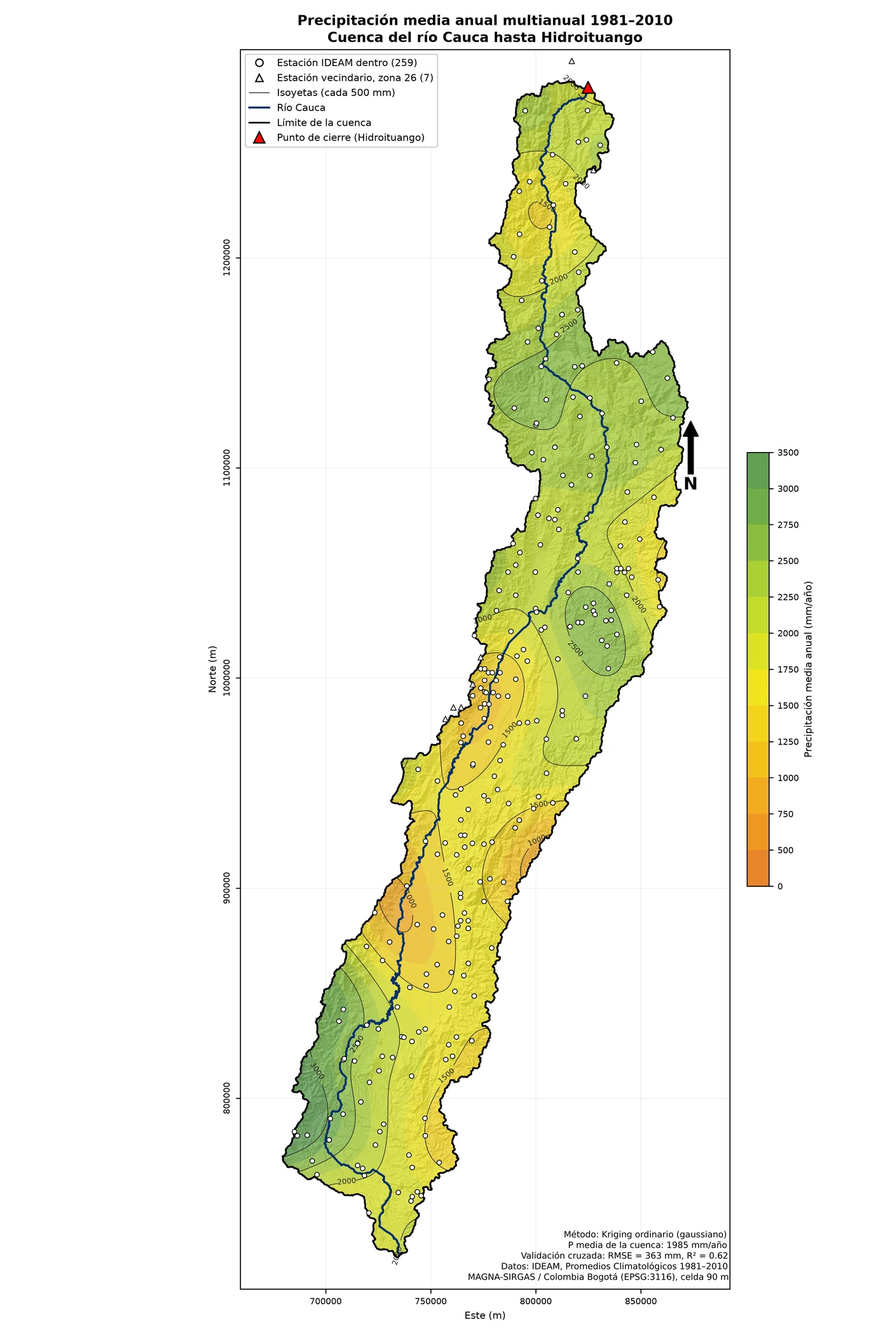
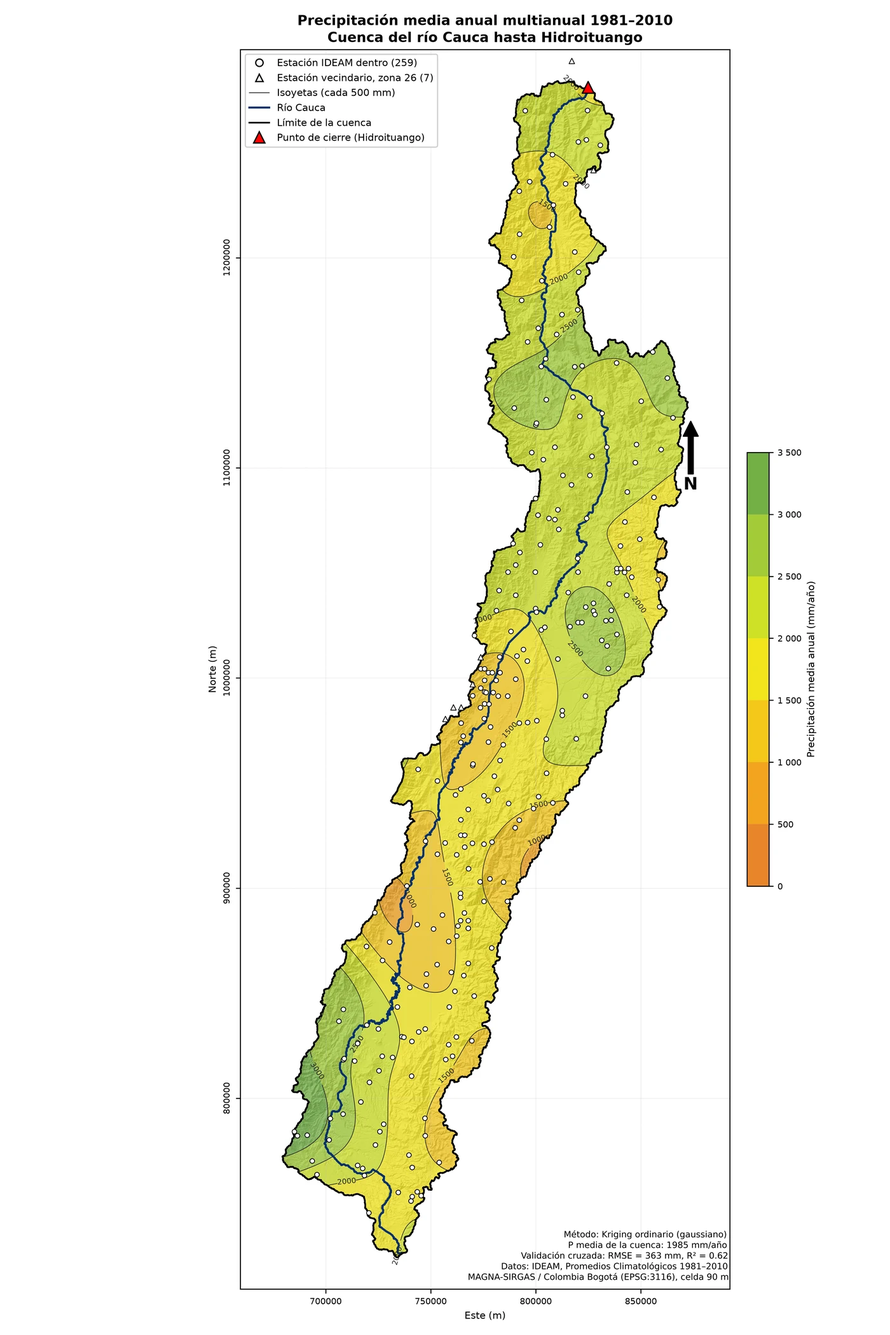
Barras de color legibles: verticales, menos clases y miles separados

diff --git a/index.html b/index.html
@@ -209,7 +209,7 @@ sobreestima la ETR, porque la curva no es lineal. La validación con caudales se
 usaron las estaciones con <b>15 años completos o más en 1981–2010</b>, el mismo periodo de la climatología. El área de drenaje de cada una
 se delimitó con el mismo DEM. El caudal medio anual multianual es el promedio de los años completos.</p>
 <h3>Decisiones</h3><ul class='dec'><li><b>Periodo 1981–2010.</b> el de la precipitación y la temperatura; además es anterior al llenado de Hidroituango (2019)</li><li><b>Faltantes sin rellenar.</b> no hay ceros ni negativos; las medias cambian 2 % o menos según el criterio de faltantes</li><li><b>La Pintada antes del río Arma.</b> entre Irra y La Pintada el caudal sólo sube 26 m³/s, menos de lo que aporta el Arma</li><li><b>Pte. Pescadero y Olaya excluidas.</b> sólo 10 años completos cada una</li></ul>
-</div></div><div class='tw'><table><caption>Ubicación, área de drenaje, periodo de registro y caudal medio anual multianual (1981–2010)</caption><thead><tr><th>Estación</th><th>Código</th><th>Municipio</th><th>Lat (°)</th><th>Lon (°)</th><th>Área (km²)</th><th>Inicio</th><th>Fin</th><th>Años 1981–2010</th><th>Q medio (m³/s)</th></tr></thead><tbody><tr><th>La Balsa</th><td>26027010</td><td>Buenos Aires</td><td class='n'>3.0917</td><td class='n'>-76.5991</td><td class='n'>5 075</td><td>1946-01-01</td><td>2025-04-10</td><td class='n'>22</td><td class='n'>178.9</td></tr><tr><th>Juanchito</th><td>26067010</td><td>Candelaria</td><td class='n'>3.4516</td><td class='n'>-76.4754</td><td class='n'>9 344</td><td>1945-10-01</td><td>2026-08-12</td><td class='n'>23</td><td class='n'>270.5</td></tr><tr><th>La Victoria</th><td>26107070</td><td>La Victoria</td><td class='n'>4.5167</td><td class='n'>-76.0333</td><td class='n'>16 285</td><td>1959-01-01</td><td>2026-08-08</td><td class='n'>24</td><td class='n'>368.8</td></tr><tr><th>La Virginia</th><td>26177030</td><td>La Virginia</td><td class='n'>4.8925</td><td class='n'>-75.8827</td><td class='n'>20 549</td><td>1946-10-01</td><td>2026-08-12</td><td class='n'>29</td><td class='n'>538.8</td></tr><tr><th>Irra</th><td>26167070</td><td>Neira</td><td class='n'>5.2683</td><td class='n'>-75.6642</td><td class='n'>24 571</td><td>1972-01-01</td><td>2026-08-12</td><td class='n'>27</td><td class='n'>663.4</td></tr><tr><th>La Pintada</th><td>26187110</td><td>La Pintada</td><td class='n'>5.7415</td><td class='n'>-75.6006</td><td class='n'>26 443</td><td>1965-01-01</td><td>2026-08-11</td><td class='n'>30</td><td class='n'>688.9</td></tr><tr><th>Pte. Iglesias</th><td>26207030</td><td>Fredonia</td><td class='n'>5.8299</td><td class='n'>-75.7055</td><td class='n'>29 005</td><td>1979-01-01</td><td>2026-08-11</td><td class='n'>23</td><td class='n'>755.0</td></tr><tr><th>Bolombolo</th><td>26207080</td><td>Venecia</td><td class='n'>5.9700</td><td class='n'>-75.8400</td><td class='n'>30 995</td><td>1971-10-01</td><td>2026-08-12</td><td class='n'>29</td><td class='n'>877.7</td></tr><tr><th>Cañafisto</th><td>26217050</td><td>Santa Fe De Antioquia</td><td class='n'>6.4173</td><td class='n'>-75.8196</td><td class='n'>32 704</td><td>1979-01-01</td><td>2025-08-31</td><td class='n'>27</td><td class='n'>912.3</td></tr><tr><th>Pto. Valdivia</th><td>26237040</td><td>Valdivia</td><td class='n'>7.2870</td><td class='n'>-75.3967</td><td class='n'>37 267</td><td>1960-01-01</td><td>2026-08-12</td><td class='n'>19</td><td class='n'>1 122.0</td></tr></tbody></table></div><figure class='fig'><button type='button' class='zoom' data-src='img/p8_disp.webp' aria-label='Ampliar: Disponibilidad de datos de las estaciones descargadas'><img src='img/p8_disp.webp' width='1600' height='1040' loading='lazy' alt='Disponibilidad de datos de las estaciones descargadas'></button><figcaption><b>Disponibilidad de datos de las estaciones descargadas.</b> Meses con al menos 80 % de días con dato. Verde: 15 años completos o más en 1981–2010 (validada); rojo: no cumple.</figcaption></figure><div class='plot serie alta' id='s_Q'></div><div class='pie'><p><b>Caudal medio mensual.</b> Seleccione una o varias estaciones en la leyenda; arrastre sobre el gráfico o use la barra inferior para acercarse a un periodo. La franja marca 1981–2010. El régimen es bimodal, con picos en mayo y noviembre. Los años más caudalosos (1999, 2008, 2010–11, 2022) coinciden con La Niña, con el máximo mensual en noviembre de 2010 (3167 m³/s en Pto. Valdivia); los más secos (1992, 2015–16) con El Niño.</p></div><div class='plot serie' id='s_qa'></div><div class='pie'><p><b>Caudal medio de cada año completo</b> (12 meses con al menos 80 % de días). El caudal medio multianual de cada estación es el promedio de estos años dentro de 1981–2010 (franja gris). Se ven los años húmedos de La Niña (1999, 2008, 2010–2011) y secos de El Niño (1992, 2015–2016) en todas las estaciones a la vez.</p></div></section><section role="tabpanel" id="p9" aria-labelledby="t-p9" hidden><h2>9. Balance hídrico</h2><div class='figs c1'><figure class='fig'><button type='button' class='zoom' data-src='img/p9_panel.webp' aria-label='Ampliar: Balance hídrico de largo plazo celda a celda'><img src='img/p9_panel.webp' width='2400' height='1342' loading='lazy' alt='Balance hídrico de largo plazo celda a celda'></button><figcaption><b>Balance hídrico de largo plazo celda a celda.</b> ETP (Hargreaves), índice de aridez φ, ETR (Budyko) y escorrentía R = P − ETR.</figcaption></figure></div><div class='cols'>
+</div></div><div class='tw'><table><caption>Ubicación, área de drenaje, periodo de registro y caudal medio anual multianual (1981–2010)</caption><thead><tr><th>Estación</th><th>Código</th><th>Municipio</th><th>Lat (°)</th><th>Lon (°)</th><th>Área (km²)</th><th>Inicio</th><th>Fin</th><th>Años 1981–2010</th><th>Q medio (m³/s)</th></tr></thead><tbody><tr><th>La Balsa</th><td>26027010</td><td>Buenos Aires</td><td class='n'>3.0917</td><td class='n'>-76.5991</td><td class='n'>5 075</td><td>1946-01-01</td><td>2025-04-10</td><td class='n'>22</td><td class='n'>178.9</td></tr><tr><th>Juanchito</th><td>26067010</td><td>Candelaria</td><td class='n'>3.4516</td><td class='n'>-76.4754</td><td class='n'>9 344</td><td>1945-10-01</td><td>2026-08-12</td><td class='n'>23</td><td class='n'>270.5</td></tr><tr><th>La Victoria</th><td>26107070</td><td>La Victoria</td><td class='n'>4.5167</td><td class='n'>-76.0333</td><td class='n'>16 285</td><td>1959-01-01</td><td>2026-08-08</td><td class='n'>24</td><td class='n'>368.8</td></tr><tr><th>La Virginia</th><td>26177030</td><td>La Virginia</td><td class='n'>4.8925</td><td class='n'>-75.8827</td><td class='n'>20 549</td><td>1946-10-01</td><td>2026-08-12</td><td class='n'>29</td><td class='n'>538.8</td></tr><tr><th>Irra</th><td>26167070</td><td>Neira</td><td class='n'>5.2683</td><td class='n'>-75.6642</td><td class='n'>24 571</td><td>1972-01-01</td><td>2026-08-12</td><td class='n'>27</td><td class='n'>663.4</td></tr><tr><th>La Pintada</th><td>26187110</td><td>La Pintada</td><td class='n'>5.7415</td><td class='n'>-75.6006</td><td class='n'>26 443</td><td>1965-01-01</td><td>2026-08-11</td><td class='n'>30</td><td class='n'>688.9</td></tr><tr><th>Pte. Iglesias</th><td>26207030</td><td>Fredonia</td><td class='n'>5.8299</td><td class='n'>-75.7055</td><td class='n'>29 005</td><td>1979-01-01</td><td>2026-08-11</td><td class='n'>23</td><td class='n'>755.0</td></tr><tr><th>Bolombolo</th><td>26207080</td><td>Venecia</td><td class='n'>5.9700</td><td class='n'>-75.8400</td><td class='n'>30 995</td><td>1971-10-01</td><td>2026-08-12</td><td class='n'>29</td><td class='n'>877.7</td></tr><tr><th>Cañafisto</th><td>26217050</td><td>Santa Fe De Antioquia</td><td class='n'>6.4173</td><td class='n'>-75.8196</td><td class='n'>32 704</td><td>1979-01-01</td><td>2025-08-31</td><td class='n'>27</td><td class='n'>912.3</td></tr><tr><th>Pto. Valdivia</th><td>26237040</td><td>Valdivia</td><td class='n'>7.2870</td><td class='n'>-75.3967</td><td class='n'>37 267</td><td>1960-01-01</td><td>2026-08-12</td><td class='n'>19</td><td class='n'>1 122.0</td></tr></tbody></table></div><figure class='fig'><button type='button' class='zoom' data-src='img/p8_disp.webp' aria-label='Ampliar: Disponibilidad de datos de las estaciones descargadas'><img src='img/p8_disp.webp' width='1600' height='1040' loading='lazy' alt='Disponibilidad de datos de las estaciones descargadas'></button><figcaption><b>Disponibilidad de datos de las estaciones descargadas.</b> Meses con al menos 80 % de días con dato. Verde: 15 años completos o más en 1981–2010 (validada); rojo: no cumple.</figcaption></figure><div class='plot serie alta' id='s_Q'></div><div class='pie'><p><b>Caudal medio mensual.</b> Seleccione una o varias estaciones en la leyenda; arrastre sobre el gráfico o use la barra inferior para acercarse a un periodo. La franja marca 1981–2010. El régimen es bimodal, con picos en mayo y noviembre. Los años más caudalosos (1999, 2008, 2010–11, 2022) coinciden con La Niña, con el máximo mensual en noviembre de 2010 (3167 m³/s en Pto. Valdivia); los más secos (1992, 2015–16) con El Niño.</p></div><div class='plot serie' id='s_qa'></div><div class='pie'><p><b>Caudal medio de cada año completo</b> (12 meses con al menos 80 % de días). El caudal medio multianual de cada estación es el promedio de estos años dentro de 1981–2010 (franja gris). Se ven los años húmedos de La Niña (1999, 2008, 2010–2011) y secos de El Niño (1992, 2015–2016) en todas las estaciones a la vez.</p></div></section><section role="tabpanel" id="p9" aria-labelledby="t-p9" hidden><h2>9. Balance hídrico</h2><div class='figs c1'><figure class='fig'><button type='button' class='zoom' data-src='img/p9_panel.webp' aria-label='Ampliar: Balance hídrico de largo plazo celda a celda'><img src='img/p9_panel.webp' width='2400' height='1350' loading='lazy' alt='Balance hídrico de largo plazo celda a celda'></button><figcaption><b>Balance hídrico de largo plazo celda a celda.</b> ETP (Hargreaves), índice de aridez φ, ETR (Budyko) y escorrentía R = P − ETR.</figcaption></figure></div><div class='cols'>
 <p class="lead">Con ΔS ≈ 0 en 30 años, R = P − ETR. En la presa: Q estimado <b>1026 m³/s</b> frente a
 1020–1084 m³/s observados.</p>
 <p>Para cada estación se promediaron P y ETR en su área de drenaje y se calculó Q<sub>est</sub> = (P − ETR)·A. Q observado en la presa:
@@ -244,7 +244,7 @@ de CHIRPS para 1980.</p>
 (≈ 5 900 mm) la triplican. ERA5-Land y ERA5 dan casi lo mismo porque la precipitación de ERA5-Land
 es la de ERA5 llevada a una grilla más fina. La media cambia menos de 3 % entre periodos, así que la elección del periodo pesa poco
 frente a la elección del producto.</p>
-</div></div><div class='plot serie' id='s_prod'></div><div class='pie'><p><b>Precipitación anual promedio de la cuenca, 1981–2025.</b> La línea punteada es la media IDEAM 1981–2010 y la franja marca el periodo seleccionado. CHIRPS reproduce los años extremos que muestran los caudales del punto 8 (1991–1992 y 2015 secos; 1999, 2008, 2011 y 2022 húmedos). ERA5 y ERA5-Land no: sus años más secos son 2018–2019 y los más húmedos 1988 y 1998. La correlación de la lluvia anual entre CHIRPS y los reanálisis es de solo 0.4 a 0.6.</p></div></section><section role="tabpanel" id="p11" aria-labelledby="t-p11" hidden><h2>11. Mapas de precipitación por producto</h2><div class='figs c1'><figure class='fig'><button type='button' class='zoom' data-src='img/p11_panel.webp' aria-label='Ampliar: Precipitación media anual multianual 1981–2010'><img src='img/p11_panel.webp' width='2400' height='1420' loading='lazy' alt='Precipitación media anual multianual 1981–2010'></button><figcaption><b>Precipitación media anual multianual 1981–2010.</b> IDEAM (kriging, punto 3) como referencia y los tres productos en su resolución original, con la misma escala de color.</figcaption></figure></div><div class='cols'>
+</div></div><div class='plot serie' id='s_prod'></div><div class='pie'><p><b>Precipitación anual promedio de la cuenca, 1981–2025.</b> La línea punteada es la media IDEAM 1981–2010 y la franja marca el periodo seleccionado. CHIRPS reproduce los años extremos que muestran los caudales del punto 8 (1991–1992 y 2015 secos; 1999, 2008, 2011 y 2022 húmedos). ERA5 y ERA5-Land no: sus años más secos son 2018–2019 y los más húmedos 1988 y 1998. La correlación de la lluvia anual entre CHIRPS y los reanálisis es de solo 0.4 a 0.6.</p></div></section><section role="tabpanel" id="p11" aria-labelledby="t-p11" hidden><h2>11. Mapas de precipitación por producto</h2><div class='figs c1'><figure class='fig'><button type='button' class='zoom' data-src='img/p11_panel.webp' aria-label='Ampliar: Precipitación media anual multianual 1981–2010'><img src='img/p11_panel.webp' width='2400' height='1226' loading='lazy' alt='Precipitación media anual multianual 1981–2010'></button><figcaption><b>Precipitación media anual multianual 1981–2010.</b> IDEAM (kriging, punto 3) como referencia y los tres productos en su resolución original, con la misma escala de color.</figcaption></figure></div><div class='cols'>
 <p class="lead">Precipitación media de la cuenca 1981–2010: IDEAM 1 985 mm, CHIRPS
 <b>2 026 mm</b>, ERA5-Land <b>5 961 mm</b> y ERA5
 <b>5 976 mm</b>.</p>
@@ -260,7 +260,7 @@ magnitud (+2 %): fondo del Valle seco, ladera occidental del alto Cauca y Eje Ca
 <p><b>ERA5 y ERA5-Land</b> triplican la lluvia y no tienen relación espacial con las estaciones (correlación −0.06). Sus máximos, de más
 de 8000 mm/año, caen sobre el fondo del Valle del Cauca y el Eje Cafetero, justo donde las estaciones miden 1000 a 2000 mm. Es un sesgo
 conocido de los reanálisis en montaña tropical, donde la convección se parametriza y la orografía se suaviza a 28 km. ERA5-Land no lo
-corrige porque su precipitación es la de ERA5 llevada a una grilla más fina.</p></div><figure class='fig'><button type='button' class='zoom' data-src='img/p11_razon.webp' aria-label='Ampliar: Razón entre cada producto y la precipitación IDEAM'><img src='img/p11_razon.webp' width='2000' height='1715' loading='lazy' alt='Razón entre cada producto y la precipitación IDEAM'></button><figcaption><b>Razón entre cada producto y la precipitación IDEAM.</b> Azul: el producto subestima; rojo: sobreestima. Los reanálisis llegan a 5 veces la lluvia de las estaciones en el Valle del Cauca.</figcaption></figure><div class='fila'><div class='figcol'><figure class='fig'><button type='button' class='zoom' data-src='img/p11_verif.webp' aria-label='Ampliar: Verificación de lectura en toda Colombia'><img src='img/p11_verif.webp' width='2200' height='1006' loading='lazy' alt='Verificación de lectura en toda Colombia'></button><figcaption><b>Verificación de lectura en toda Colombia.</b> Precipitación anual 1981–2010 de cada archivo en el dominio completo, con la cuenca en rojo y lugares de referencia.</figcaption></figure></div><div class='texto'>
+corrige porque su precipitación es la de ERA5 llevada a una grilla más fina.</p></div><figure class='fig'><button type='button' class='zoom' data-src='img/p11_razon.webp' aria-label='Ampliar: Razón entre cada producto y la precipitación IDEAM'><img src='img/p11_razon.webp' width='2000' height='1715' loading='lazy' alt='Razón entre cada producto y la precipitación IDEAM'></button><figcaption><b>Razón entre cada producto y la precipitación IDEAM.</b> Azul: el producto subestima; rojo: sobreestima. Los reanálisis llegan a 5 veces la lluvia de las estaciones en el Valle del Cauca.</figcaption></figure><div class='fila'><div class='figcol'><figure class='fig'><button type='button' class='zoom' data-src='img/p11_verif.webp' aria-label='Ampliar: Verificación de lectura en toda Colombia'><img src='img/p11_verif.webp' width='2200' height='906' loading='lazy' alt='Verificación de lectura en toda Colombia'></button><figcaption><b>Verificación de lectura en toda Colombia.</b> Precipitación anual 1981–2010 de cada archivo en el dominio completo, con la cuenca en rojo y lugares de referencia.</figcaption></figure></div><div class='texto'>
 <h3>Verificación de los archivos</h3>
 <p>Antes de interpretar el sesgo de los reanálisis se comprobó que los archivos se leyeron en la posición correcta. En los tres el máximo
 nacional está en la costa Pacífica y coinciden en Quibdó (≈ 8 100–8 800 mm/año), La Guajira es seca (Riohacha 700–1 250 mm) y al invertir la
@@ -297,7 +297,7 @@ lluvia se vuelve escorrentía. Por eso CHIRPS v3.0, con 11 % más lluvia que v2.
 <p>Conclusión: para el balance hídrico de esta cuenca CHIRPS representa mejor las condiciones observadas; los reanálisis sólo servirían con
 una corrección de sesgo basada en estaciones.</p>
 </div></div>
-<div class='tw'><table><caption>Error del caudal estimado por área de drenaje y producto</caption><thead><tr><th>Error del caudal (%)</th><th>IDEAM</th><th>CHIRPS v2.0</th><th>ERA5-Land</th><th>ERA5</th></tr></thead><tbody><tr><th>La Balsa</th><td class='n'>+7.0</td><td class='n'>+3.9</td><td class='n'>+182.8</td><td class='n'>+157.4</td></tr><tr><th>Juanchito</th><td class='n'>+5.4</td><td class='n'>+3.1</td><td class='n'>+264.0</td><td class='n'>+246.7</td></tr><tr><th>La Victoria</th><td class='n'>+4.9</td><td class='n'>+10.2</td><td class='n'>+543.2</td><td class='n'>+535.3</td></tr><tr><th>La Virginia</th><td class='n'>-6.7</td><td class='n'>-4.0</td><td class='n'>+486.8</td><td class='n'>+473.5</td></tr><tr><th>Irra</th><td class='n'>-3.5</td><td class='n'>-0.9</td><td class='n'>+556.5</td><td class='n'>+562.2</td></tr><tr><th>La Pintada</th><td class='n'>+1.7</td><td class='n'>+4.1</td><td class='n'>+572.9</td><td class='n'>+576.5</td></tr><tr><th>Pte. Iglesias</th><td class='n'>+6.7</td><td class='n'>+10.2</td><td class='n'>+541.3</td><td class='n'>+543.3</td></tr><tr><th>Bolombolo</th><td class='n'>+1.1</td><td class='n'>+4.9</td><td class='n'>+468.8</td><td class='n'>+472.1</td></tr><tr><th>Cañafisto</th><td class='n'>+3.1</td><td class='n'>+6.7</td><td class='n'>+455.7</td><td class='n'>+460.0</td></tr><tr><th>Hidroituango</th><td class='n'>-5.3</td><td class='n'>-2.2</td><td class='n'>+390.3</td><td class='n'>+392.4</td></tr></tbody></table></div><div class='plot serie' id='s_p12'></div><div class='pie'><p><b>Q estimado / Q observado por área de drenaje</b> (escala logarítmica). 1 = balance perfecto; la franja marca ±10 %. Haga clic en la leyenda para mostrar u ocultar productos.</p></div><div class='plot serie' id='s_bud'></div><div class='pie'><p><b>Áreas de drenaje en el espacio de Budyko con la ETR «observada» = P − Q<sub>obs</sub>.</b> Sobre la curva, la lluvia del producto es coherente con el caudal; por encima del límite de energía (línea punteada) el balance no puede cerrar. El cursor muestra la corrección de P necesaria.</p></div><figure class='fig'><button type='button' class='zoom' data-src='img/p12_R.webp' aria-label='Ampliar: Escorrentía de largo plazo R = P − ETR con cada producto'><img src='img/p12_R.webp' width='2200' height='1370' loading='lazy' alt='Escorrentía de largo plazo R = P − ETR con cada producto'></button><figcaption><b>Escorrentía de largo plazo R = P − ETR con cada producto.</b> Misma ETP de Hargreaves para todos; las diferencias vienen sólo de la precipitación. Compárese con los rendimientos observados del punto 8.</figcaption></figure>
+<div class='tw'><table><caption>Error del caudal estimado por área de drenaje y producto</caption><thead><tr><th>Error del caudal (%)</th><th>IDEAM</th><th>CHIRPS v2.0</th><th>ERA5-Land</th><th>ERA5</th></tr></thead><tbody><tr><th>La Balsa</th><td class='n'>+7.0</td><td class='n'>+3.9</td><td class='n'>+182.8</td><td class='n'>+157.4</td></tr><tr><th>Juanchito</th><td class='n'>+5.4</td><td class='n'>+3.1</td><td class='n'>+264.0</td><td class='n'>+246.7</td></tr><tr><th>La Victoria</th><td class='n'>+4.9</td><td class='n'>+10.2</td><td class='n'>+543.2</td><td class='n'>+535.3</td></tr><tr><th>La Virginia</th><td class='n'>-6.7</td><td class='n'>-4.0</td><td class='n'>+486.8</td><td class='n'>+473.5</td></tr><tr><th>Irra</th><td class='n'>-3.5</td><td class='n'>-0.9</td><td class='n'>+556.5</td><td class='n'>+562.2</td></tr><tr><th>La Pintada</th><td class='n'>+1.7</td><td class='n'>+4.1</td><td class='n'>+572.9</td><td class='n'>+576.5</td></tr><tr><th>Pte. Iglesias</th><td class='n'>+6.7</td><td class='n'>+10.2</td><td class='n'>+541.3</td><td class='n'>+543.3</td></tr><tr><th>Bolombolo</th><td class='n'>+1.1</td><td class='n'>+4.9</td><td class='n'>+468.8</td><td class='n'>+472.1</td></tr><tr><th>Cañafisto</th><td class='n'>+3.1</td><td class='n'>+6.7</td><td class='n'>+455.7</td><td class='n'>+460.0</td></tr><tr><th>Hidroituango</th><td class='n'>-5.3</td><td class='n'>-2.2</td><td class='n'>+390.3</td><td class='n'>+392.4</td></tr></tbody></table></div><div class='plot serie' id='s_p12'></div><div class='pie'><p><b>Q estimado / Q observado por área de drenaje</b> (escala logarítmica). 1 = balance perfecto; la franja marca ±10 %. Haga clic en la leyenda para mostrar u ocultar productos.</p></div><div class='plot serie' id='s_bud'></div><div class='pie'><p><b>Áreas de drenaje en el espacio de Budyko con la ETR «observada» = P − Q<sub>obs</sub>.</b> Sobre la curva, la lluvia del producto es coherente con el caudal; por encima del límite de energía (línea punteada) el balance no puede cerrar. El cursor muestra la corrección de P necesaria.</p></div><figure class='fig'><button type='button' class='zoom' data-src='img/p12_R.webp' aria-label='Ampliar: Escorrentía de largo plazo R = P − ETR con cada producto'><img src='img/p12_R.webp' width='2200' height='1154' loading='lazy' alt='Escorrentía de largo plazo R = P − ETR con cada producto'></button><figcaption><b>Escorrentía de largo plazo R = P − ETR con cada producto.</b> Misma ETP de Hargreaves para todos; las diferencias vienen sólo de la precipitación. Compárese con los rendimientos observados del punto 8.</figcaption></figure>
 <h3>Sensibilidad a la versión de CHIRPS</h3>
 <div class="dos"><div>
 <p>El Drive del curso trae <b>CHIRPS v3.0</b>. Con esa versión la lluvia de la cuenca queda +11 %
@@ -309,7 +309,7 @@ ser la versión publicada y porque cierra el balance con los caudales observados
 </div><div>
 <div class='tw'><table><caption>CHIRPS v2.0 (principal) frente a v3.0 (Drive del curso), 1981–2010</caption><thead><tr><th>CHIRPS v2.0 (principal) frente a v3.0 (Drive del curso)</th><th>CHIRPS v2.0</th><th>CHIRPS v3.0</th></tr></thead><tbody><tr><th>P media cuenca (mm/año)</th><td class='n'>2 026.22</td><td class='n'>2 201.77</td></tr><tr><th>Diferencia con IDEAM (%)</th><td class='n'>2.07</td><td class='n'>10.91</td></tr><tr><th>Correlación espacial con IDEAM</th><td class='n'>0.89</td><td class='n'>0.89</td></tr><tr><th>ETR cuenca (mm/año)</th><td class='n'>1 096.55</td><td class='n'>1 117.67</td></tr><tr><th>Q estimado cierre (mm/año)</th><td class='n'>929.67</td><td class='n'>1 084.10</td></tr><tr><th>Error en el cierre (%)</th><td class='n'>-2.16</td><td class='n'>14.10</td></tr><tr><th>Error abs. medio estaciones (%)</th><td class='n'>5.34</td><td class='n'>24.27</td></tr><tr><th>Rango de error estaciones (%)</th><td>-4 a +10</td><td>+15 a +32</td></tr><tr><th>Ciclo: sesgo (mm/mes)</th><td class='n'>2.37</td><td class='n'>17.00</td></tr><tr><th>Ciclo: RMSE (mm/mes)</th><td class='n'>4.77</td><td class='n'>17.82</td></tr><tr><th>Ciclo: r</th><td class='n'>1.00</td><td class='n'>1.00</td></tr></tbody></table></div>
 </div></div>
-<figure class='fig'><button type='button' class='zoom' data-src='img/p12_chirps_v2.webp' aria-label='Ampliar: CHIRPS v3.0 frente a v2.0'><img src='img/p12_chirps_v2.webp' width='2200' height='1724' loading='lazy' alt='CHIRPS v3.0 frente a v2.0'></button><figcaption><b>CHIRPS v3.0 frente a v2.0.</b> Precipitación media anual 1981–2010 de cada versión en su resolución original y diferencia relativa entre ellas.</figcaption></figure></section><section role="tabpanel" id="p13" aria-labelledby="t-p13" hidden><h2>13. Climatología de la precipitación</h2><div class='figs c1'><figure class='fig'><button type='button' class='zoom' data-src='img/p13_panel.webp' aria-label='Ampliar: Precipitación media mensual multianual 1981–2010'><img src='img/p13_panel.webp' width='2400' height='1825' loading='lazy' alt='Precipitación media mensual multianual 1981–2010'></button><figcaption><b>Precipitación media mensual multianual 1981–2010.</b> Kriging ordinario mes a mes con las 266 estaciones IDEAM del punto 3; misma escala de clases en los doce mapas; en el título de cada mapa, la media de la cuenca (P̄m).</figcaption></figure></div><div class='cols'>
+<figure class='fig'><button type='button' class='zoom' data-src='img/p12_chirps_v2.webp' aria-label='Ampliar: CHIRPS v3.0 frente a v2.0'><img src='img/p12_chirps_v2.webp' width='2200' height='1708' loading='lazy' alt='CHIRPS v3.0 frente a v2.0'></button><figcaption><b>CHIRPS v3.0 frente a v2.0.</b> Precipitación media anual 1981–2010 de cada versión en su resolución original y diferencia relativa entre ellas.</figcaption></figure></section><section role="tabpanel" id="p13" aria-labelledby="t-p13" hidden><h2>13. Climatología de la precipitación</h2><div class='figs c1'><figure class='fig'><button type='button' class='zoom' data-src='img/p13_panel.webp' aria-label='Ampliar: Precipitación media mensual multianual 1981–2010'><img src='img/p13_panel.webp' width='2400' height='1832' loading='lazy' alt='Precipitación media mensual multianual 1981–2010'></button><figcaption><b>Precipitación media mensual multianual 1981–2010.</b> Kriging ordinario mes a mes con las 266 estaciones IDEAM del punto 3; misma escala de clases en los doce mapas; en el título de cada mapa, la media de la cuenca (P̄m).</figcaption></figure></div><div class='cols'>
 <p class="lead">Régimen <b>bimodal</b>: dos temporadas de lluvia, marzo–mayo (máximo en abril, 218 mm) y
 septiembre–noviembre (máximo en octubre, 240 mm, el mes más lluvioso), separadas por dos temporadas secas,
 diciembre–febrero (120 mm en febrero) y junio–agosto (114 mm en agosto, el mes
